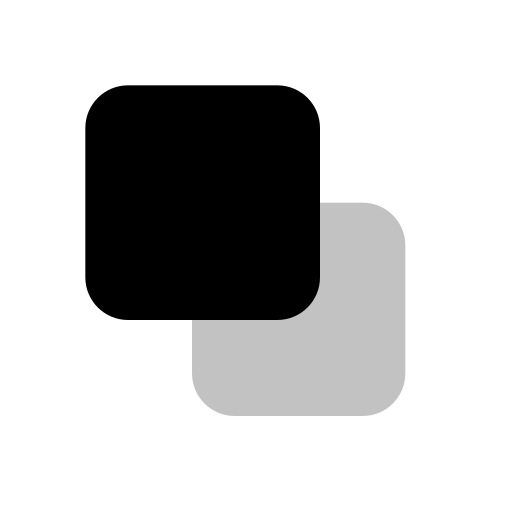
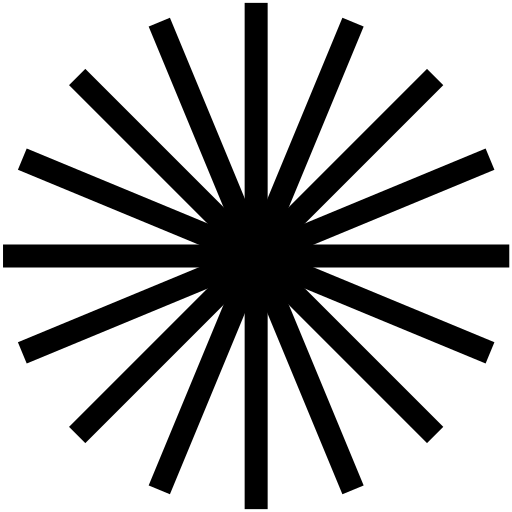
Update brand variables for Verita AI

diff --git a/src/lib/components/Logo.svelte b/src/lib/components/Logo.svelte
@@ -3,7 +3,14 @@
 	const props: HTMLAttributes<SVGSVGElement> = $props();
 </script>
 
-<svg viewBox="0 0 24 24" fill="none" xmlns="http://www.w3.org/2000/svg" class="" {...props}>
-	<rect x="4" y="4" width="11" height="11" rx="2" fill="currentColor" />
-	<rect x="9" y="9.5" width="10" height="10" rx="2" fill="currentColor" fill-opacity="0.24" />
+<svg viewBox="0 0 89 88" fill="none" xmlns="http://www.w3.org/2000/svg" class="" {...props}>
+<path d="M44.5271 0V88" stroke="currentColor" stroke-width="4"/>
+<path d="M0.5271 44L88.5271 44" stroke="currentColor" stroke-width="4"/>
+<path d="M13.4144 12.8873L75.6398 75.1127" stroke="currentColor" stroke-width="4"/>
+<path d="M13.4144 75.1128L75.6398 12.8874" stroke="currentColor" stroke-width="4"/>
+<path d="M61.3652 3.34937L27.689 84.6508" stroke="currentColor" stroke-width="4"/>
+<path d="M3.87643 27.1619L85.1778 60.838" stroke="currentColor" stroke-width="4"/>
+<path d="M27.6891 3.34937L61.3652 84.6508" stroke="currentColor" stroke-width="4"/>
+<path d="M3.8764 60.8381L85.1778 27.162" stroke="currentColor" stroke-width="4"/>
 </svg>
+

diff --git a/src/TODO-archive.md b/src/TODO-archive.md
@@ -372,3 +372,107 @@
 - [ ] Final design system compliance check - verify design system classes prioritized over Tailwind, NO shadows, NO custom CSS, NO arbitrary values
 
 ──────────────────────────────────────────────────
+
+## Session: 2025-09-04T22:15:43.995Z
+
+<!-- DO NOT EDIT - Managed by todo_list tool -->
+<!-- Updated: 2025-09-04T22:13:55.220Z -->
+
+# Current Todo List State
+
+- [x] Examine current home page structure and existing hero
+- [x] Review CenteredTextOnlyHero component and its props
+- [x] Check app.html to determine if site is dark mode
+- [x] Generate appropriate pixelated gradient background image
+- [x] Update CenteredTextOnlyHero with Verita AI copy
+- [x] Import and implement CenteredTextOnlyHero in home page
+- [x] Verify implementation and brand alignment
+- [x] Run comprehensive error check and fix all issues
+- [x] Call update_brand_variables to generate brand variables for Verita AI
+- [x] Examine current configuration files (index.ts, app.html, theme.css)
+- [x] Update app.html to set data-theme='dark' for strategic dark mode
+- [x] Configure dark mode styling in theme.css
+- [x] Update company metadata in index.ts with Verita AI information
+- [x] Verify brand variables align with purple gradient style guide requirements
+- [x] Run comprehensive error check and fix all issues
+- [x] Develop 6 strategic features that address target customer pain points
+- [x] Focus on differentiating from Scale AI and other competitors
+- [x] Incorporate multimodal training data capabilities
+- [x] Highlight expert curation vs crowdsourcing
+- [x] Emphasize subjective reasoning and taste capabilities
+- [x] Update Features component with new strategic features
+- [x] Remove generating prop from Features component
+- [x] Final design system compliance check
+- [x] Generate professional founder headshot image
+- [x] Craft authentic founder quote that reveals motivation behind Verita AI
+- [x] Update AboutTeaser component with new founder content
+- [x] Remove generating prop from home page
+- [x] Ensure design system compliance and brand alignment
+- [ ] Examine current about page structure and SecondaryHero component implementation
+- [ ] Generate authentic company culture imagery representing Verita AI team and mission
+- [ ] Create compelling mission-driven copy using writeCopy tool for hero content
+- [ ] Update brand variables to ensure consistent styling throughout the site
+- [ ] Implement the about page hero with brand-aligned purple gradients and typography
+- [ ] Add subtle animations and micro-interactions for professional polish
+- [ ] Ensure responsive design works perfectly across all device sizes
+- [ ] Test component integration and visual hierarchy
+- [ ] Run comprehensive error check and fix all issues
+- [ ] Final design system compliance check - verify design system classes prioritized over Tailwind
+- [x] Generate images for about page hero, CTA, and team sections
+- [x] Update about page SecondaryHero with new hero image
+- [x] Update about page CallToAction with new CTA image
+- [x] Update about page StakeholderGrid with new team member images
+- [x] Update home page AboutTeaser to show Rithika Kacham instead of Alex Morgan
+- [x] Update AboutTeaser with new founder image
+- [x] Final design system compliance check - verify design system classes prioritized over Tailwind, NO shadows, NO custom CSS, NO arbitrary values
+- [x] Examine current about page and SecondaryHero component structure
+- [x] Generate authentic team/culture imagery that represents Verita AI's mission
+- [x] Create mission-driven copy focusing on 'why we exist' for credibility
+- [x] Implement hero design using purple gradient brand aesthetic
+- [x] Apply proper Inter Tight typography and 8px spacing system
+- [x] Ensure technical sophistication with human warmth personality
+- [x] Run comprehensive error check and fix all issues
+- [x] Update brand variables to reflect moodboard-inspired color palette with gradients
+- [x] Generate new hero image with abstract human silhouette and gradient aesthetic
+- [x] Update hero section copy to reflect AGI mission and dual product positioning
+- [x] Generate new images for testimonials and CTA section matching moodboard style
+- [x] Update features section to showcase both Multimodal Data Services and Enterprise Agent Training
+- [ ] Refresh testimonials to represent broader customer base (labs, startups, enterprises)
+- [ ] Update CTA section to reflect dual product offering and research-first ethos
+- [x] Update Summary section to reflect expanded positioning and human-centered data philosophy
+- [ ] Run comprehensive error check and fix all issues
+- [ ] Final design system compliance check
+- [x] Update brand variables to reflect moodboard-inspired color palette with orange/red gradients
+- [x] Generate new frontier/sci-fi aesthetic images matching the Dune-inspired moodboard
+- [x] Update hero section to reflect AGI mission and dual product positioning
+- [x] Rewrite summary section to emphasize research-first ethos and ground truth concept
+- [ ] Update features section to showcase both Multimodal Data Services and Verita Intelligence
+- [ ] Refresh testimonials to include enterprise customers from regulated industries
+- [ ] Update CTA section to reflect broader value proposition for all target segments
+- [ ] Update logo scroller to include relevant enterprise and AI startup logos
+- [ ] Final design system compliance check - verify design system classes prioritized over Tailwind, NO shadows, NO custom CSS, NO arbitrary values, check theme.css, app.css and typography.css
+- [x] Update brand variables to reflect moodboard aesthetic with orange/red gradients and sci-fi themes
+- [x] Generate new hero images that match the frontier/artsy/sci-fi aesthetic from moodboard
+- [x] Update hero section with new AGI-focused messaging and dual-product positioning
+- [x] Restructure Summary section to introduce both Multimodal Data Services and Verita Intelligence
+- [x] Update Features section to showcase capabilities across both product lines
+- [ ] Revise testimonials to include enterprise customers and cover both products
+- [ ] Update LogoScroller to include enterprise and fintech logos alongside AI labs
+- [ ] Revise CallToAction to reflect dual-product offering and research-first positioning
+- [ ] Update company description in config to reflect new dual-product focus
+- [x] Generate additional images for testimonials and CTA sections matching new aesthetic
+- [ ] Final design system compliance check - verify design system classes prioritized over Tailwind, NO shadows, NO custom CSS, NO arbitrary values
+- [x] Update brand variables to reflect the frontier/sci-fi aesthetic from moodboard
+- [x] Generate new hero image reflecting frontier exploration and AGI research themes
+- [x] Update hero section content to reflect AGI mission and dual product offering
+- [x] Revise features section to showcase both Multimodal Data Services and Verita Intelligence
+- [x] Update testimonials to include regulated enterprise customers alongside AI labs
+- [x] Generate new testimonial images with diverse professional backgrounds
+- [ ] Update LogoScroller to include enterprise customer logos
+- [x] Generate new CTA image reflecting research-first company ethos
+- [ ] Update CTA content to reflect dual product positioning
+- [ ] Update Summary section to explain the dual product strategy
+- [ ] Run comprehensive error check and fix all issues
+- [ ] Final design system compliance check
+
+──────────────────────────────────────────────────

diff --git a/src/TODO-list.md b/src/TODO-list.md
@@ -1,5 +1,5 @@
 <!-- DO NOT EDIT - Managed by todo_list tool -->
-<!-- Updated: 2025-09-04T22:13:55.220Z -->
+<!-- Updated: 2025-09-04T22:15:44.217Z -->
 
 # Current Todo List State
 
@@ -97,3 +97,12 @@
 - [ ] Update Summary section to explain the dual product strategy
 - [ ] Run comprehensive error check and fix all issues
 - [ ] Final design system compliance check
+- [ ] Update brand variables to match moodboard's orange/red gradient aesthetic
+- [ ] Generate frontier/sci-fi inspired images for homepage sections
+- [ ] Update hero section with dual-product AGI mission messaging
+- [ ] Revise Summary section to reflect research-first positioning
+- [ ] Update Features section to cover both data services and enterprise agents
+- [ ] Create new testimonials reflecting broader customer base (labs, startups, enterprises)
+- [ ] Update CTA section with dual-product positioning
+- [ ] Update company description in config to reflect new positioning
+- [ ] Final design system compliance check - verify design system classes prioritized over Tailwind, NO shadows, NO custom CSS, NO arbitrary values, check theme.css, app.css and typography.css
